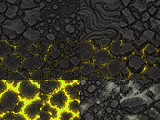
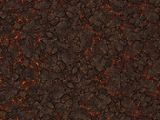
deploy: 주인공 단계별 검·장별 지형/로비 그림(ae9a24d)
Claude-Session: https://claude.ai/code/session_01V9yKUb2Gf4kiSLWufezAUb

diff --git a/src/Battle.js b/src/Battle.js
@@ -12,6 +12,14 @@ import { track, logCtx } from './log.js';
 import { dexKill } from './codex.js';
 import { makeEnv } from './envfx.js';
 
+// 주인공 시트(검 없는 hn_*)의 프레임별 손 위치 [x, y, 칼날 방향(도)]. w는 한 칸 너비. 서 있기·피격·돌진은 같은 시트('pose')
+const HAND = {
+  walkFront: { w: 37, f: [[7, 30, 115], [6, 31, 115], [7, 31, 115], [6, 32, 115]] },
+  walkUp: { w: 39, f: [[29, 31, 65], [29, 32, 65], [29, 31, 65], [30, 32, 65]] },
+  walkSide: { w: 40, f: [[12, 33, 35], [12, 33, 35], [11, 33, 35], [11, 33, 35]] },
+  slash: { w: 58, f: [[21, 9, -55], [41, 32, 35], [44, 24, 0], [25, 36, 30]] },
+  pose: { w: 63, f: [[28, 31, 75], [25, 29, 170], [27, 32, 50], [28, 33, 50]] },
+};
 const { W, H } = D;
 const WORLD = 1600;
 const R = Phaser.Math.Between, RF = Phaser.Math.FloatBetween;
@@ -52,7 +60,7 @@ export class Battle extends Phaser.Scene {
     // 장면 인스턴스는 판끼리 재사용된다: 이벤트·축복·던전 고블린 상태를 비운다
     this.ultTip = null; this.eventDone = false; this.shrine = null; this.buffUntil = 0; this.buffTxt = null; this.dunGobT = null;
     // 보스 단계도 비운다(앞 판이 보스전으로 끝나면 다음 판이 웨이브 없이 영원히 이어졌다)
-    this.bossPhase = false; this.midBoss = null; this.midDone = false; this.midWave = undefined; this.eliteDone = false; this.ringDone = false; this.spawnAcc = 0;
+    this.bossPhase = false; this.midBoss = null; this.midDone = false; this.midWave = undefined; this.eliteDone = false; this.ringDone = false; this.tasteDone = false; this.spawnAcc = 0;
     this.run = {
       lv: 1, xp: 0, silver: 0, kills: 0, mana: 0, stones: 0, chests: 0,
       skills: { sword: 1 }, evo: {}, freeReroll: 1, shopRound: 0,
@@ -186,6 +194,12 @@ export class Battle extends Phaser.Scene {
     // 가운데 광장·길 안쪽으로 들어간 거리(밖이면 음수)
     const inside = (x, y) => Math.max(190 - Math.hypot(x - c, y - c), 50 - Math.abs(x - c), 50 - Math.abs(y - c));
     // 바깥 바닥을 전부 깔고, 광장 바닥은 경계에서 서서히 짙어지게 겹친다(경계 타일을 쓰면 계단식 사각 패치로 보였다)
+    if (key === 'tile9' || key === 'tile12') {
+      // 9·12장 바닥은 160x120 한 장이 통째로 이어지는 그림이라 회전·광장 겹침 없이 깐다(칸을 섞으면 사각 이음새가 보였다)
+      const big = this.make.image({ key, add: false }).setOrigin(0);
+      for (let y = 0; y < WORLD + 2 * M; y += ts.height) for (let x = 0; x < WORLD + 2 * M; x += ts.width) rt.draw(big, x, y);
+      big.destroy();
+    } else
     for (let y = -M; y < WORLD + M; y += T) for (let x = -M; x < WORLD + M; x += T) {
       const n = Math.random(), cx = x + T / 2, cy = y + T / 2;
       // 3번 그림(밝은 변종)은 3장부터 색을 입히면 사각으로 튄다
@@ -215,10 +229,14 @@ export class Battle extends Phaser.Scene {
       this.textures.addSpriteSheet('decos', ds, { frameWidth: ds.width / 4, frameHeight: ds.height });
     }
     this.torches = [];
-    for (let i = 0; i < 90; i++) {
+    const hasProp = this.textures.exists('prop' + (this.c + 1));   // 장 테마 소품이 있으면 더 촘촘히(6~15장이 한 틀로 보이던 걸 줄인다)
+    for (let i = 0; i < (hasProp ? 190 : 90); i++) {
       const x = R(0, WORLD), y = R(0, WORLD);
-      if (Math.hypot(x - c, y - c) < 220) continue;
-      this.add.image(x, y, 'decos', R(0, 2)).setOrigin(0.5, 1).setDepth(10 + y / WORLD).setTint(decoTint);
+      if (Math.hypot(x - c, y - c) < (hasProp ? 150 : 220)) continue;
+      // 6~15장은 장 테마 소품(prop<장>, 3종), 없으면 풀숲·기둥
+      const pk = 'prop' + (this.c + 1);
+      if (this.textures.exists(pk)) { if (!this.textures.exists(pk + '_f')) { const ps = this.textures.get(pk).getSourceImage(); this.textures.addSpriteSheet(pk + '_f', ps, { frameWidth: ps.width / 3, frameHeight: ps.height }); } this.add.image(x, y, pk + '_f', R(0, 2)).setOrigin(0.5, 1).setDepth(10 + y / WORLD); }
+      else this.add.image(x, y, 'decos', R(0, 2)).setOrigin(0.5, 1).setDepth(10 + y / WORLD).setTint(decoTint);
     }
     for (let a = 0; a < 8; a++) {
       const x = c + Math.cos(a * Math.PI / 4) * 200, y = c + Math.sin(a * Math.PI / 4) * 200;
@@ -257,8 +275,17 @@ export class Battle extends Phaser.Scene {
     if (sv.enh >= 10) this.hero.preFX?.addGlow(rc, sv.enh >= 15 ? 3 : 2, 0, false, 0.1, 8);
     // 주인공 그림은 검을 들고 있다: 다른 무기면 손에 그 무기 그림을 겹쳐 든다
     const wk = `w_${this.wtype.id}${sv.tier}`;
-    this.heroWeapon = this.wtype.id !== 'sword' && this.textures.exists(wk) ? this.add.image(0, 0, wk) : null;
-    if (this.heroWeapon) this.heroWeapon.setScale(16 / Math.max(this.heroWeapon.width, this.heroWeapon.height));   // 6단계 이후 그림은 16칸보다 크다
+    this.heroWeapon = this.textures.exists(wk) ? this.add.image(0, 0, wk) : null;
+    this.heroSword = this.wtype.id === 'sword';
+    if (this.heroWeapon) {
+      // 검은 등급마다 다른 그림(w_sword0~9)을 손잡이 끝으로 쥔다. +5·+10·+15를 넘으면 검이 커지고 강화 색으로 빛난다
+      const eb = sv.enh >= 15 ? 3 : sv.enh >= 10 ? 2 : sv.enh >= 5 ? 1 : 0, sz = this.heroSword ? 18 + 2 * eb : 16;
+      this.heroWeapon.setScale(sz / Math.max(this.heroWeapon.width, this.heroWeapon.height));   // 6단계 이후 그림은 16칸보다 크다
+      if (this.heroSword) {
+        this.heroWeapon.setOrigin(0.2, 0.8);
+        if (eb) this.heroWeapon.preFX?.addGlow(rc, eb, 0, false, 0.1, 6);
+      }
+    }
     this.face = 1; this.walkT = 0; this.iframe = 0;
     this.atk = D.weaponAtk(sv.tier, sv.enh);
   }
@@ -325,11 +352,11 @@ export class Battle extends Phaser.Scene {
   refreshSkillRow() {
     this.skillRow.removeAll(true);
     Object.entries(this.run.skills).forEach(([k, lv], i) => {
-      const x = (i % 8) * 17, y = Math.floor(i / 8) * 17;
+      const x = (i % 8) * 20, y = Math.floor(i / 8) * 20;   // 한 칸 18(전엔 15): 작아서 뭔지 안 보였다(+20%)
       const evo = this.run.evo[k];
-      this.skillRow.add(this.add.rectangle(x, y, 15, 15, evo ? 0x5a3a08 : 0x000000, 0.6).setOrigin(0).setStrokeStyle(1, evo ? 0xff9a3a : D.SKILLS[k].type === 'active' ? 0x6fd3ff : 0xffd75e, evo ? 1 : 0.7));
-      this.skillRow.add(skillIcon(this, x + 7.5, y + 7.5, D.SKILLS[k], 13));
-      this.skillRow.add(this.add.text(x + 15, y + 15, evo ? '★' : lv, font(7, evo ? '#ffd75e' : '#ffffff')).setOrigin(1, 1));
+      this.skillRow.add(this.add.rectangle(x, y, 18, 18, evo ? 0x5a3a08 : 0x000000, 0.6).setOrigin(0).setStrokeStyle(1, evo ? 0xff9a3a : D.SKILLS[k].type === 'active' ? 0x6fd3ff : 0xffd75e, evo ? 1 : 0.7));
+      this.skillRow.add(skillIcon(this, x + 9, y + 9, D.SKILLS[k], 16));
+      this.skillRow.add(this.add.text(x + 18, y + 18, evo ? '★' : lv, font(8, evo ? '#ffd75e' : '#ffffff')).setOrigin(1, 1));
     });
   }
 
@@ -1040,6 +1067,16 @@ export class Battle extends Phaser.Scene {
       while (this.spawnAcc >= 1) { this.spawnAcc--; if (this.mobs.countActive() < (first11 ? (this.easy ? 38 : 42) : 70)) this.spawn(); }
       // 웨이브마다 엘리트 1마리(중간), 포위는 웨이브 2부터
       if (!this.eliteDone && this.waveT > this.waveLen * (this.wave + this.c + this.s === 0 ? 0.55 : 0.5)) { this.eliteDone = true; this.spawn(false, this.ch.mobs[1], { elite: true, force: true }); }
+      // 1-1 마지막 웨이브 후반: 다음 장 몹이 두 마리 잠깐 얼굴을 비춘다('앞으로 더 있다'). 약하게 줘서 난이도는 그대로
+      if (!this.tasteDone && this.c === 0 && this.s === 0 && !this.endless && !this.hard && !this.dungeon && this.wave === this.waveCount - 1 && this.waveT > this.waveLen * 0.62) {
+        this.tasteDone = true;
+        const nx = D.CHAPTERS[1];
+        if (nx) {
+          for (let i = 0; i < 2; i++) { const m = this.spawn(false, nx.mobs[i % 2], { force: true }); if (m) { m.maxHp = m.hp = m.hp * 0.6; m.dmg *= 0.5; m.preFX?.addGlow(0xff6a8a, 2, 0, false, 0.1, 8); } }
+          this.banner('저건 뭐지?', `${nx.name}의 몹이 엿보인다`);
+          this.log('taste_next', { ch: 1 });
+        }
+      }
       if (this.eventAt != null && !this.eventDone && this.progress() >= this.eventAt) { this.eventDone = true; this.surprise(this.eventKind); }
       // 던전: 15초마다 보물 고블린(알림 없이)
       if (this.dungeon && this.bt >= (this.dunGobT ??= D.DUNGEON.goblinSec * 1000)) { this.dunGobT += D.DUNGEON.goblinSec * 1000; this.spawnGoblin(true); }
@@ -1129,11 +1166,20 @@ export class Battle extends Phaser.Scene {
     this.heroMark.setPosition(h.x, h.y - h.height / 2 - 4 + Math.sin(this.bt / 160) * 1.5);
     this.heroShadow.setPosition(h.x, h.y + h.height / 2 - 2).setScale(1.6 * (1 - bob * 2), 1.4).setDepth(9);
     if (this.heroWeapon) {
-      // 손 자리: 앞모습은 왼쪽 아래, 뒷모습은 오른쪽(몸 뒤), 옆모습·서 있기는 바라보는 쪽, 휘두를 땐 앞으로 뻗는다
       const k = h.anims.currentAnim?.key, f = h.flipX ? -1 : 1;
-      const [ox, oy, ang] = k === 'walkFront' ? [-9, 6, -20] : k === 'walkUp' ? [9, 5, 20] : k === 'slash' ? [13 * f, 0, 40 * f] : [6 * f, 7, 10 * f];
-      this.heroWeapon.setPosition(h.x + ox, h.y + oy - bob * h.height).setFlipX(f < 0).setAngle(ang + h.angle)
-        .setDepth(h.depth + (k === 'walkUp' ? -0.001 : 0.001)).setAlpha(h.alpha);
+      if (this.heroSword) {
+        // 프레임마다 손 위치(시트 픽셀)와 칼날 방향(도, 0=오른쪽·아래가 +)을 따라 쥔다
+        const T = HAND[k === 'walkFront' || k === 'walkUp' || k === 'walkSide' || k === 'slash' ? k : 'pose'], fi = h.anims.currentFrame?.textureFrame ?? 0;
+        const [gx, gy, th] = T.f[Math.min(fi, T.f.length - 1)];
+        const te = f > 0 ? th : 180 - th;
+        this.heroWeapon.setPosition(h.x + (gx - T.w / 2) * f, h.y + (gy - 26) - bob * h.height).setFlipX(f < 0).setAngle(te + (f > 0 ? 45 : 135) + h.angle)
+          .setDepth(h.depth + (k === 'walkUp' ? -0.001 : 0.001)).setAlpha(h.alpha);
+      } else {
+        // 손 자리: 앞모습은 왼쪽 아래, 뒷모습은 오른쪽(몸 뒤), 옆모습·서 있기는 바라보는 쪽, 휘두를 땐 앞으로 뻗는다
+        const [ox, oy, ang] = k === 'walkFront' ? [-9, 6, -20] : k === 'walkUp' ? [9, 5, 20] : k === 'slash' ? [13 * f, 0, 40 * f] : [6 * f, 7, 10 * f];
+        this.heroWeapon.setPosition(h.x + ox, h.y + oy - bob * h.height).setFlipX(f < 0).setAngle(ang + h.angle)
+          .setDepth(h.depth + (k === 'walkUp' ? -0.001 : 0.001)).setAlpha(h.alpha);
+      }
     }
     this.moveV = v;
   }

diff --git a/src/overlay.js b/src/overlay.js
@@ -560,6 +560,16 @@ export class Overlay {
       if (sv.stats.losses >= 10) { const e = grantEgg(sv, 'granny', false); if (e) loot.push(e); }
     }
     const salvaged = addItems(sv, loot);
+    // 1-1을 처음 깼을 땐 얻은 장비 중 지금 낀 것보다 좋은 것을 알아서 낀다(처음 하는 사람은 장비 탭을 열 줄 모른다)
+    const autoEq = [];
+    if (first && !hard && idx === 0) {
+      for (const it of loot.slice().sort((a, b) => itemScore(b) - itemScore(a))) {
+        if (it.egg || it.bag || !sv.inv.includes(it)) continue;
+        if (sv.eq[it.s] === it.u) { autoEq.push(it); continue; }   // 빈 부위라 addItems가 이미 끼웠다
+        const cur = equipped(sv).find(x => x.s === it.s);
+        if (!cur || itemScore(it) > itemScore(cur)) { sv.eq[it.s] = it.u; autoEq.push(it); }
+      }
+    }
     eggsSettled();
     // 보스를 처음 잡으면 그 보스 펫이 합류한다. 펫이 없으면 알아서 데려간다(펫 탭을 안 열어도 보이게)
     const newPet = first && !hard && PETS.find(p => p.unlock === sv.cleared);
@@ -657,10 +667,10 @@ export class Overlay {
     const egg = loot.find(it => it.egg), top = loot.reduce((a, it) => Math.max(a, it.r < 4 ? it.r : -1), -1);
     // 장 보스를 처음 잡으면 새 무기가 열린다(장마다 받는 큰 보상)
     const wNew = s.run.newW;   // 이번 판에 얻은 새 무기(보스 첫 처치는 확정, 그 밖엔 확률)
-    const head = wNew ? `새 무기 「${wNew.name}」 획득!` : s.run.dupW ? `무기를 다 모아 강화석 +${D.DUP_W_STONE}` : egg ? `숨겨진 장비 「${egg.n}」!` : newPet ? `새 펫 「${newPet.name}」 합류!` : top >= 3 ? '전설 장비!' : loot.length ? `장비 ${loot.length}개를 가방에 넣었다${salvaged ? ` (가득 차 강화석 +${salvaged})` : ''}` : '';
+    const head = autoEq.length && !wNew && !egg && !newPet ? `${autoEq[0].n}${autoEq.length > 1 ? ` 외 ${autoEq.length - 1}개` : ''} 자동 장착!` : wNew ? `새 무기 「${wNew.name}」 획득!` : s.run.dupW ? `무기를 다 모아 강화석 +${D.DUP_W_STONE}` : egg ? `숨겨진 장비 「${egg.n}」!` : newPet ? `새 펫 「${newPet.name}」 합류!` : top >= 3 ? '전설 장비!' : loot.length ? `장비 ${loot.length}개를 가방에 넣었다${salvaged ? ` (가득 차 강화석 +${salvaged})` : ''}` : '';
     // 보스를 처음 잡으면 새 무기와 보스 펫이 같이 온다: 펫은 한 줄 위에 따로
     if (wNew && newPet) c.add(s.add.text(W / 2, 326, `새 펫 「${newPet.name}」 합류!`, font9(10, '#ffb050')).setOrigin(0.5));
-    if (head) c.add(s.add.text(W / 2, 350, head, wNew || egg || newPet || top >= 3 ? font(11, '#ffb050') : font9(10, '#a1b2b6')).setOrigin(0.5));
+    if (head) c.add(s.add.text(W / 2, 350, head, wNew || egg || newPet || top >= 3 ? font(11, '#ffb050') : autoEq.length ? font(11, '#5fdc6a') : font9(10, '#a1b2b6')).setOrigin(0.5));
     // 보스 펫 합류는 결과 창 위에 따로 크게 띄운다(한 줄 글씨로는 못 보고 지나갔다)
     if (newPet && !s.bot) this.petJoin(newPet);
     if (finale && !s.bot) this.finale();

diff --git a/src/Boot.js b/src/Boot.js
@@ -9,7 +9,7 @@ const REQUIRED = ['hero_r0', 'hero_r1', 'hero_r2', 'hero2_r0', 'hero2_r1', 'hero
 // 6~15장 그림은 기존 그림의 색만 바꿔 만든다(tools/palette.py). 몹 시트 z6~z15(장당 3행), 보스 boss3~boss6, 바닥 tile6~tile15
 const NEW_CH = [6, 7, 8, 9, 10, 11, 12, 13, 14, 15];
 const OPTIONAL = ['z2', 'z3', 'z4', 'z5', 'boss1', 'boss2', 'boss3', 'boss4', 'boss5', ...NEW_CH.map(c => 'z' + c)].flatMap(k => [0, 1, 2].map(r => `${k}_r${r}`))
-  .concat(['boss6_r0'], NEW_CH.map(c => 'tile' + c))
+  .concat(['boss6_r0'], NEW_CH.map(c => 'tile' + c), NEW_CH.map(c => 'prop' + c), [1, 2, 3, 4, 6, 7, 8, 9, 10, 11, 12, 13, 14, 15].map(c => 'lobby_bg' + c))
   .concat(['icons_r0', 'icons_r1', 'icons_r2', 'icons_r3', 'forge_bg', 'lobby_bg', 'bell', 'tile2', 'tile3', 'tile4', 'tile5']);
 // 코드로 그리던 작은 그림을 대신하는 PNG(assets/icon). 있으면 makeTextures가 건너뛴다
 const ICONS = ['gemc', 'gs_helm', 'gs_armor', 'gs_boots', 'gs_ring', 'gs_collar', 'loot', 'chest', 'meat', 'silver',
@@ -28,6 +28,7 @@ export class Boot extends Phaser.Scene {
     this.load.on('progress', v => { bar.width = 160 * v; });
     this.load.on('loaderror', f => console.warn('missing asset', f.key));
     for (const k of REQUIRED.concat(OPTIONAL)) this.load.image(k, `assets/${k}.png`);
+    for (const k of ['hero2_r0', 'hero2_r1', 'hero_r1', 'hero_r2', 'hero2_r2']) this.load.image('hn_' + k, `assets/hn_${k}.png`);   // 검을 지운 전투용 주인공(검은 Battle이 단계별로 쥔다)
     for (const k of ICONS) this.load.image(k, `assets/icon/${k}.png`);
     for (const id of WEAPONS) for (let t = 0; t < 10; t++) this.load.image(`w_${id}${t}`, `assets/weapon/${id}${t}.png`);
   }
@@ -43,14 +44,17 @@ export class Boot extends Phaser.Scene {
   create() {
     const A = (key, sheet, rate, repeat = -1, frames) => sheet &&
       this.anims.create({ key, frames: this.anims.generateFrameNumbers(sheet, frames ? { frames } : {}), frameRate: rate, repeat });
-    A('walkFront', this.sheet('hero2_r0'), 8);
-    A('walkUp', this.sheet('hero2_r1'), 8);
-    A('walkSide', this.sheet('hero_r1'), 8);
-    A('slash', this.sheet('hero_r2'), 26, 0);
-    const pose = this.sheet('hero2_r2');
+    // 전투 주인공은 검을 지운 시트(hn_)를 쓴다. 로비는 검이 그려진 원본 'idleL'
+    const hn = k => this.sheet('hn_' + k) || this.sheet(k);
+    A('walkFront', hn('hero2_r0'), 8);
+    A('walkUp', hn('hero2_r1'), 8);
+    A('walkSide', hn('hero_r1'), 8);
+    A('slash', hn('hero_r2'), 26, 0);
+    const pose = hn('hero2_r2');
     A('idle', pose, 2.5, -1, [2, 3]);
     A('hurtPose', pose, 1, 0, [0]);
     A('dashPose', pose, 1, 0, [1]);
+    A('idleL', this.sheet('hero2_r2'), 2.5, -1, [2, 3]);
     A('fxSlash', this.sheet('fx1_r0'), 32, 0);
     A('fxHit', this.sheet('fx1_r1'), 30, 0);
     A('fxSmoke', this.sheet('fx1_r2'), 16, 0);

diff --git a/src/envfx.js b/src/envfx.js
@@ -213,7 +213,9 @@ export class Env {
       q.hot = Math.max(0, q.hot - dt);
       const lit = q.hot > 0 ? 0.6 + 0.4 * Math.abs(Math.sin(s.bt / 60)) : 0.3;
       g.fillStyle(0xe8f4ff, lit * 0.25).fillCircle(q.x, q.y - 2, q.hot > 0 ? 36 : 22).lineStyle(1, 0xe8f4ff, lit * 0.6).strokeEllipse(q.x, q.y, 64, 48);
-      g.fillStyle(0x4a5668, 1).fillRect(q.x - 3, q.y - 30, 6, 30).fillStyle(0xc8d8f0, 1).fillRect(q.x - 1, q.y - 38, 2, 9).fillStyle(0xffffff, lit).fillCircle(q.x, q.y - 39, 3);
+      if (q.img === undefined) q.img = s.textures.exists('prop13_f') ? s.add.image(q.x, q.y, 'prop13_f', 0).setOrigin(0.5, 1).setDepth(10 + q.y / WORLD) : null;   // 그림이 있으면 기둥은 그림으로
+      if (q.img) q.img.setTint(q.hot > 0 ? 0xffffff : 0xc8c8d0);
+      else g.fillStyle(0x4a5668, 1).fillRect(q.x - 3, q.y - 30, 6, 30).fillStyle(0xc8d8f0, 1).fillRect(q.x - 1, q.y - 38, 2, 9).fillStyle(0xffffff, lit).fillCircle(q.x, q.y - 39, 3);
     }
     // 대장간 모루: 서 있는 동안 달궈지고(공격력↑), 가득 차면 화상. 내려서면 식는다
     if (this.anvils) {
@@ -222,7 +224,9 @@ export class Env {
         const near = this.inEll(a.x, a.y, 30); on = on || near;
         const glow = Math.min(1, this.heat / 100);
         g.fillStyle(0xff7a20, 0.12 + 0.3 * (near ? 1 : 0.4) + glow * 0.2).fillEllipse(a.x, a.y, 60, 45).lineStyle(1.5, 0xffd75e, near ? 0.9 : 0.45).strokeEllipse(a.x, a.y, 60, 45);
-        g.fillStyle(0x2a2a34, 1).fillRect(a.x - 9, a.y - 10, 18, 6).fillRect(a.x - 5, a.y - 5, 10, 6).fillRect(a.x - 8, a.y, 16, 3).fillStyle(0xff9a40, 0.5 + glow * 0.5).fillRect(a.x - 9, a.y - 10, 18, 2);
+        if (a.img === undefined) a.img = s.textures.exists('prop15_f') ? s.add.image(a.x, a.y + 4, 'prop15_f', 0).setOrigin(0.5, 1).setDepth(10 + a.y / WORLD) : null;   // 모루 그림(없으면 사각 도형)
+        if (a.img) a.img.setTint(glow > 0.05 || near ? 0xffffff : 0xd0d0d0);
+        else g.fillStyle(0x2a2a34, 1).fillRect(a.x - 9, a.y - 10, 18, 6).fillRect(a.x - 5, a.y - 5, 10, 6).fillRect(a.x - 8, a.y, 16, 3).fillStyle(0xff9a40, 0.5 + glow * 0.5).fillRect(a.x - 9, a.y - 10, 18, 2);
       }
       this.onAnvil = on;
       const was = this.heat;

diff --git a/src/Lobby.js b/src/Lobby.js
@@ -352,7 +352,8 @@ export class Lobby extends Phaser.Scene {
     // 무기가 주인공: 성채 그림 위에 지금 든 무기와 강화 단계를 크게 세운다(칸과 글자만 빽빽했다)
     const pv = this.add.container(0, 0); b.add(pv);
     const AY = 68, AH = 138;
-    if (this.textures.exists('lobby_bg')) pv.add(this.add.image(0, AY - 30, 'lobby_bg').setOrigin(0).setCrop(0, 30, W, AH));
+    const lbk = this.textures.exists('lobby_bg' + (c + 1)) ? 'lobby_bg' + (c + 1) : 'lobby_bg';   // 장마다 배경이 다르다(5장은 마왕성 lobby_bg)
+    if (this.textures.exists(lbk)) pv.add(this.add.image(0, AY - 30, lbk).setOrigin(0).setCrop(0, 30, W, AH));
     else pv.add(this.add.rectangle(0, AY, W, AH, 0x15111f).setOrigin(0));
     pv.add(this.add.rectangle(0, AY + AH - 44, W, 44, 0x05030a, 0.55).setOrigin(0));
     pv.add(this.add.rectangle(0, AY, W, 18, 0x05030a, 0.5).setOrigin(0));
@@ -903,7 +904,7 @@ export class Lobby extends Phaser.Scene {
       b.add(this.add.text(W / 2, 410, '몸 색이 바뀌고 작은 능력치가 붙는다', font9(10, '#a1b2b6')).setOrigin(0.5));
       HERO_SKINS.forEach((hs, i) => {
         const own = !hs.id || sv.hskins?.[hs.id], on = (sv.hskin || '') === hs.id;
-        cell(i, hs, own, on, (x, y) => { const h = this.add.sprite(x, y, 'hero2_r0s').play('idle').setScale(0.8); return hs.id ? skinFx(h, hs) : h; },
+        cell(i, hs, own, on, (x, y) => { const h = this.add.sprite(x, y, 'hero2_r0s').play('idleL').setScale(0.8); return hs.id ? skinFx(h, hs) : h; },
           () => { (sv.hskins ||= {})[hs.id] = true; sv.hskin = hs.id; track('hskin_equip', { skin: hs.id || 'none' }); });
       });
     } else {

diff --git a/src/ui.js b/src/ui.js
@@ -117,7 +117,7 @@ export function skinFx(sprite, sk) {
 export function weaponIcon(scene, x, y, wid, tier = 0, size = 22) {
   const key = `w_${wid}${tier}`;
   // 검 0~4단계는 아이콘 시트 그림, 6단계 이후는 단계마다 따로 그린 w_sword<등급>(크기가 달라도 size에 맞춘다)
-  if (wid === 'sword' && tier < 5 && scene.textures.exists('icons_r0s') || !scene.textures.exists(key)) return icon(scene, x, y, TIERS[tier].icon, size);
+  if (!scene.textures.exists(key)) return icon(scene, x, y, TIERS[tier].icon, size);
   const im = scene.add.image(x, y, key);
   return im.setScale(size / Math.max(im.width, im.height));
 }
